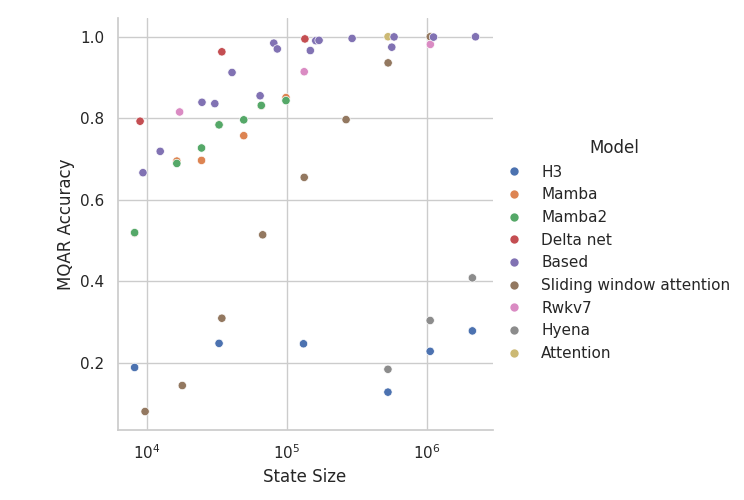
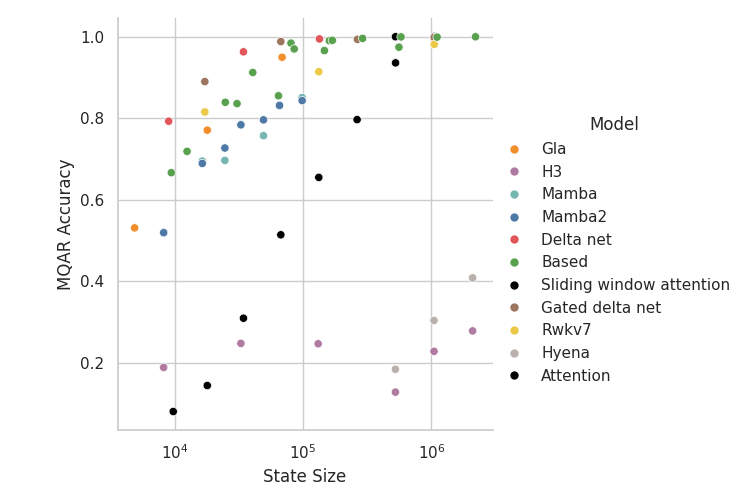
update

diff --git a/zoology/experiments/models_repo.py b/zoology/experiments/models_repo.py
@@ -231,7 +231,7 @@ def add_rwkv7(models, conv_mixer, input_seq_len, model_factory_kwargs):
 # DeltaNet
 def add_delta_net(models, conv_mixer, input_seq_len, model_factory_kwargs):
     block_type = "TransformerBlock"
-    for d_model in [64, 128, 256]: # 64, 
+    for d_model in [64, 128, 256]: 
         delta_net_mixer = dict(
             name="zoology.mixers.delta_net.DeltaNet",
             kwargs={
@@ -260,15 +260,67 @@ def add_delta_net(models, conv_mixer, input_seq_len, model_factory_kwargs):
     return models
 
 
+# DeltaNet
+def add_gated_delta_net(models, conv_mixer, input_seq_len, model_factory_kwargs):
+    block_type = "TransformerBlock"
+    for d_model in [64, 128, 256]: 
+        delta_net_mixer = dict(
+            name="zoology.mixers.gated_delta_net.GatedDeltaNet",
+            kwargs={
+                "l_max": input_seq_len,
+                "num_heads": 2,         # Tune
+                "use_gate": False,      # Tune
+                "use_short_conv": True, # Tune
+                "conv_size": 4
+            }
+        )
+        mixer = dict(
+            name="zoology.mixers.hybrid.Hybrid",
+            kwargs={"configs": [conv_mixer, delta_net_mixer]}
+        )
+        model = ModelConfig(
+            block_type="TransformerBlock",
+            d_model=d_model,
+            n_layers=2,
+            sequence_mixer=mixer,
+            max_position_embeddings=0,
+            name="gated_delta_net",
+            **model_factory_kwargs
+        )
+        models.append(model)
+    return models
+
+
+# Gated linear attention
+def add_gla(models, conv_mixer, input_seq_len, model_factory_kwargs):
+    block_type = "TransformerBlock"
+    for d_model in [64, 128, 256]: 
+        delta_net_mixer = dict(
+            name="zoology.mixers.gla.GatedLinearAttention",
+            kwargs={
+                "num_heads": 2,          # Tune
+                "use_short_conv": False, # Tune (False default)
+            }
+        )
+        mixer = dict(
+            name="zoology.mixers.hybrid.Hybrid",
+            kwargs={"configs": [conv_mixer, delta_net_mixer]}
+        )
+        model = ModelConfig(
+            block_type="TransformerBlock",
+            d_model=d_model,
+            n_layers=2,
+            sequence_mixer=mixer,
+            max_position_embeddings=0,
+            name="gla",
+            **model_factory_kwargs
+        )
+        models.append(model)
+    return models
+
 
 #### TODO ####
 
-
-# GLA
-def add_gla(models):
-    block_type = "TransformerBlock"
-    pass
-    return models
 
 # Deepseek NSA
 def add_deepseek_nsa(models):

diff --git a/zoology/experiments/030325_new_arch/configs.py b/zoology/experiments/030325_new_arch/configs.py
@@ -5,7 +5,7 @@ from zoology.data.associative_recall import MQARConfig
 
 
 sweep_id = uuid.uuid4().hex[:6]
-sweep_name = "delta-net-v0" + sweep_id
+sweep_name = "gated-delta-net-v0" + sweep_id
 
 VOCAB_SIZE = 8_192
 
@@ -56,15 +56,15 @@ conv_mixer = dict(
 )
 
 
-from zoology.experiments.models_repo import add_attention, add_based, add_mamba2, add_rwkv7, add_delta_net
-# models = add_attention(models)
-# models = add_based(models)
-# models = add_mamba2(models)
+from zoology.experiments.models_repo import add_attention, add_based, add_mamba2, add_rwkv7, add_delta_net, add_gla, add_gated_delta_net
+
 models = add_delta_net(models, conv_mixer, input_seq_len, model_factory_kwargs)
-# models = add_rwkv7(models, conv_mixer, input_seq_len, model_factory_kwargs)
+models = add_rwkv7(models, conv_mixer, input_seq_len, model_factory_kwargs)
+models = add_gla(models, conv_mixer, input_seq_len, model_factory_kwargs)
+models = add_gated_delta_net(models, conv_mixer, input_seq_len, model_factory_kwargs)
 
 # convenience for filtering out 
-included = ["delta_net"]
+included = ["gated_delta_net"]
 models = [m for m in models if any([i in m.name for i in included])]
 
 

diff --git a/zoology/analysis/paper/based_figure1.py b/zoology/analysis/paper/based_figure1.py
@@ -9,6 +9,22 @@ import matplotlib.pyplot as plt
 from zoology.analysis.utils import fetch_wandb_runs
 
 
+model2color = {
+    "Hyena": "#BAB0AC",
+    "H3": "#B07AA1",
+    
+    'Attention': "black", 
+    'Sliding window attention': "black", 
+
+    'Based': "#59A14F", # "#F28E2B"
+    "Mamba2": "#4E79A7",
+    'Gated delta net': "#9C755F", 
+    'Rwkv7': "#EDC948", 
+    'Mamba': "#76B7B2", 
+    'Delta net': "#E15759", 
+    'Gla': "#F28E2B",
+}
+
 def plot(
     df: pd.DataFrame,
     metric: str="valid/accuracy",
@@ -37,6 +53,7 @@ def plot(
         marker="o",
         height=5,
         aspect=1,
+        palette=model2color,
     )
     g.set(xscale="log", ylabel="MQAR Accuracy", xlabel="State Size")
 
@@ -66,6 +83,11 @@ if __name__ == "__main__" :
             "default-2025-03-05-14-59-58",
 
             # Adding Gated DeltaNet
+            "default-2025-03-05-16-20-42",
+            "default-2025-03-05-16-41-32",
+
+            # Adding Gated Linear Attention (GLA)
+            "default-2025-03-05-16-01-15",
         ], 
         project_name="0325_zoology"
     )

diff --git a/zoology/mixers/gated_delta_net.py b/zoology/mixers/gated_delta_net.py
@@ -82,7 +82,7 @@ class GatedDeltaNet(nn.Module):
         self,
         d_model: int = 2048,
         expand_v: float = 2,
-        head_dim: int = 256,
+        # head_dim: int = 256,
         num_heads: int = 6,
         mode: str = 'chunk',
         use_gate: bool = True,
@@ -106,8 +106,10 @@ class GatedDeltaNet(nn.Module):
         self.conv_size = conv_size
         self.conv_bias = conv_bias
 
-        self.head_dim = head_dim
+        # self.head_dim = head_dim
         self.num_heads = num_heads
+        self.head_dim = hidden_size // self.num_heads
+        head_dim = self.head_dim
 
         self.key_dim = self.num_heads * self.head_dim
         self.value_dim = self.key_dim * self.expand_v

diff --git a/README.md b/README.md
@@ -25,18 +25,23 @@ We have provided support for various efficient models.
 
 | Year | Venue   | Model          | Title   |  Paper   |   
 | :--- | :------ | :------------- | :-------------------------------------------------------------------------------------------------------- | :------------------------------------------------: | 
+| 2021 | NeurIPS    | Scatterbrain | Scatterbrain: Unifying Sparse and Low-rank Attention Approximation |  [link](https://arxiv.org/abs/2110.15343)    |
 | 2023 | ICLR    | H3            | Hungry Hungry Hippos: Towards Language Modeling with State Space Models      |      [link](https://arxiv.org/abs/2212.14052)    |
 | 2023 | ICLR    | Hyena            | Hyena Hierarchy: Towards Larger Convolutional Language Models     |      [link](https://arxiv.org/abs/2302.10866)    |
 | 2024 | ICML    | GLA            | Gated Linear Attention Transformers with Hardware-Efficient Training                                      |      [link](https://arxiv.org/abs/2312.06635)    |
 | 2024 | ICML    | Based          | Simple linear attention language models balance the recall-throughput tradeoff                            |      [link](https://arxiv.org/abs/2402.18668)         |
+| 2024 | ICML    | Mamba2         | Transformers are SSMs: Generalized Models and Efficient Algorithms Through Structured State Space Duality |      [link](https://arxiv.org/abs/2405.21060)       |
 | 2024 | COLM    | Mamba          | Mamba: Linear-Time Sequence Modeling with Selective State Spaces|      [link](https://arxiv.org/abs/2312.00752)         |
 | 2024 | NeurIPS | DeltaNet       | Parallelizing Linear Transformers with Delta Rule  over Sequence Length                                   |      [link](https://arxiv.org/abs/2406.06484)   |
-| 2024 | ICML    | Mamba2         | Transformers are SSMs: Generalized Models and Efficient Algorithms Through Structured State Space Duality |      [link](https://arxiv.org/abs/2405.21060)       |
+| 2025 | ICLR | Gated DeltaNet       | Gated Delta Networks: Improving Mamba2 with Delta Rule   |      [link](https://arxiv.org/abs/2412.06464)   |
+
 | 2025 ||RWKV7          |      |   
 
 <div align="center" >
-    <img src="zoology/analysis/paper/results.png" height=250 alt="Meerkat logo" style="margin-bottom:px"/>
+    <img src="zoology/analysis/paper/results.png" height=300 alt="MQAR Plot" style="margin-bottom:px"/>
 </div> 
+
+Note that state size is a proxy for model efficiency, however it is also worth considering the wall-clock speed required to use different state sizes for a particular architecture choice. 
 
 ## Getting started
 
@@ -50,8 +55,8 @@ pip install -e .[extra,analysis]
 If you want to keep this install as lightweight as possible; the only required dependencies are: `torch, einops, tqdm, pydantic, wandb`. There is some extra functionality (*e.g.* launching sweeps in parallel with Ray) that require additional dependencies. To install without the optional dependencies, run `pip install -e .`.
 
 Observations: 
-- The ``fla'' module (imported for GLA, RWKV-v7, etc.) is most compatible with Python 3.10+ 
-- The ``mamba_ssm'' module (imported for Mamba) is most compatible with PyTorch 2.5
+- The ```fla``` module (imported for GLA, RWKV-v7, etc.) is most compatible with Python 3.10+ Further, if you use an H100 GPU and incur issues with triton, you may find this issue helpful: [issue](https://github.com/fla-org/flash-linear-attention/issues/196).
+- The ```mamba_ssm``` module (imported for Mamba) is most compatible with PyTorch 2.5
 
 Then, try running an example experiment with: 
 ```
